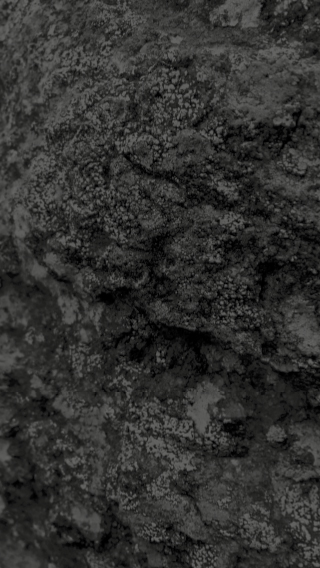
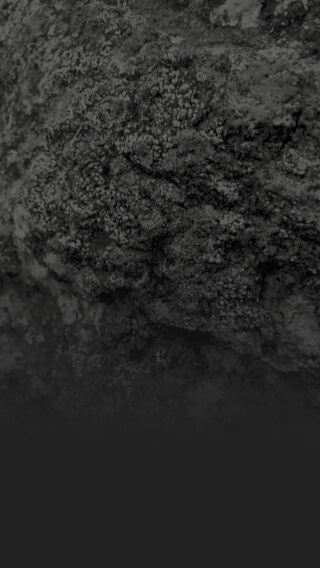
image background, light is right

diff --git a/themes/curiosity/assets/scss/custom/layout.scss b/themes/curiosity/assets/scss/custom/layout.scss
@@ -4,14 +4,15 @@
 ////
 
 .wrapper {
-    background: url(/images/bg-small.jpg) no-repeat center center fixed $base;
-    background-size: cover;
+    background: url(/images/bg-small.jpg) no-repeat top center fixed $base;
     color: $white;
 }
 
 @media screen and (min-width: 21em) {
     .wrapper {
         background-image: url(/images/bg-medium.jpg);
+        background-size: cover;
+        background-position: center center;
     }
 }
 

diff --git a/themes/curiosity/assets/scss/_settings.scss b/themes/curiosity/assets/scss/_settings.scss
@@ -23,5 +23,5 @@ $white: #FFF;
 
 $neutral: #777;
 $light: #c0c0c0;
-$base: #333;
+$base: #222;
 $contrast: #ddc79d;
